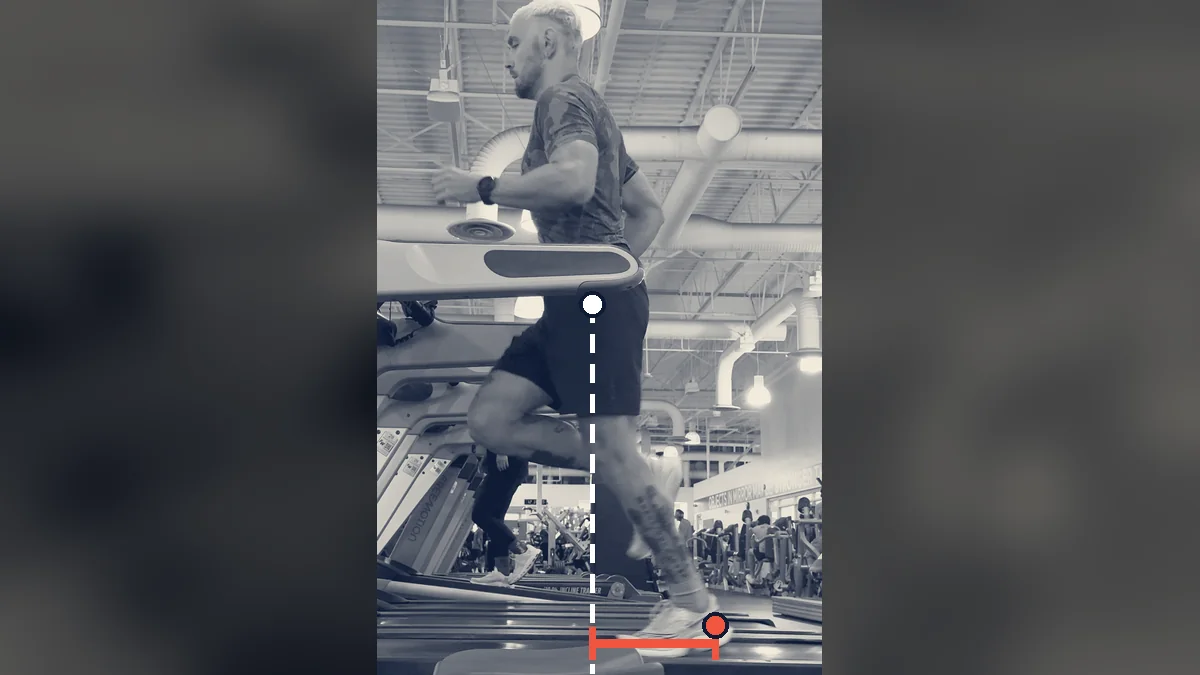
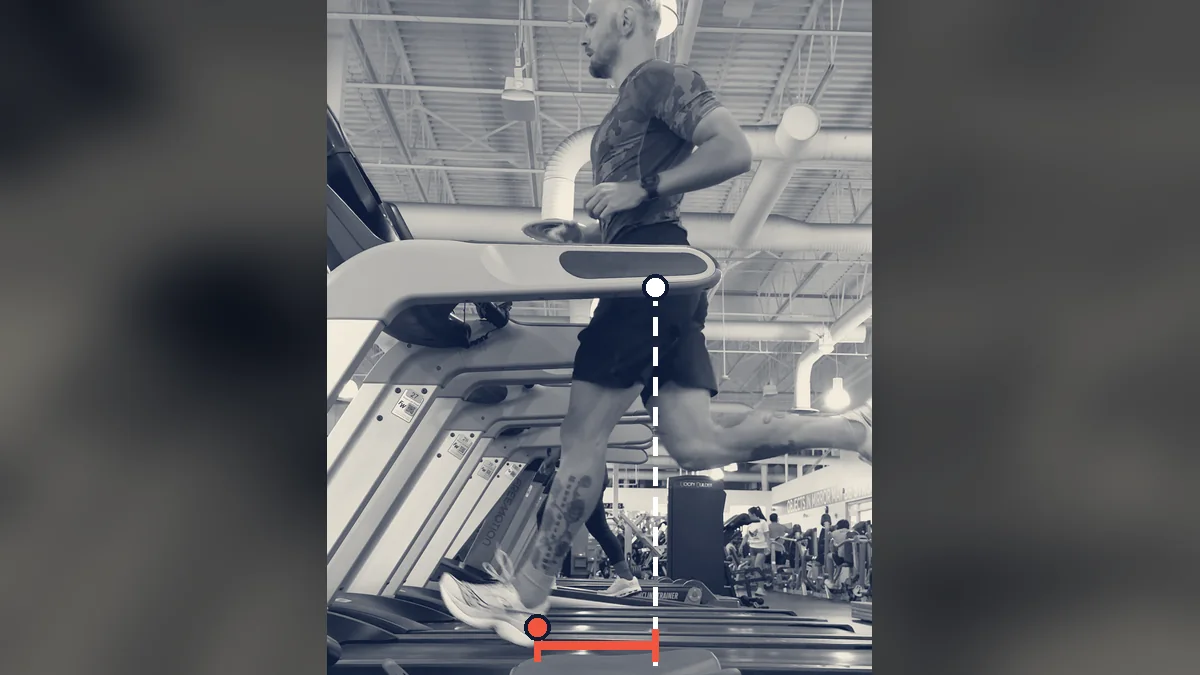
Academy: the overstriding cover shows the landing foot, not the push-off one
The cover builder assumed the runner faces right; in IMG_4004 he faces
left, so it marked the trailing foot at push-off, behind the hip. Now
frame 13: the leading foot at touchdown, 0.36 leg lengths ahead of the
hip, knee 175°, shin -18° - a real reach.

diff --git a/backend/content/academy/overstriding.md b/backend/content/academy/overstriding.md
@@ -9,7 +9,7 @@ published: "2026-07-15"
 updated: "2026-11-02"
 featured: false
 cover: "/media/academy/covers/overstriding.webp"
-cover_alt: "Runner at touchdown with a vertical line dropped from the hip and the landing foot marked ahead of it"
+cover_alt: "Runner at touchdown on a treadmill, a vertical line dropped from the hip and the landing foot marked 0.36 leg lengths ahead of it, on a nearly straight knee"
 cover_credit: "Flapp footage + Flapp overlay"
 sources:
   - author: "Heiderscheit, Chumanov, Michalski, et al."
